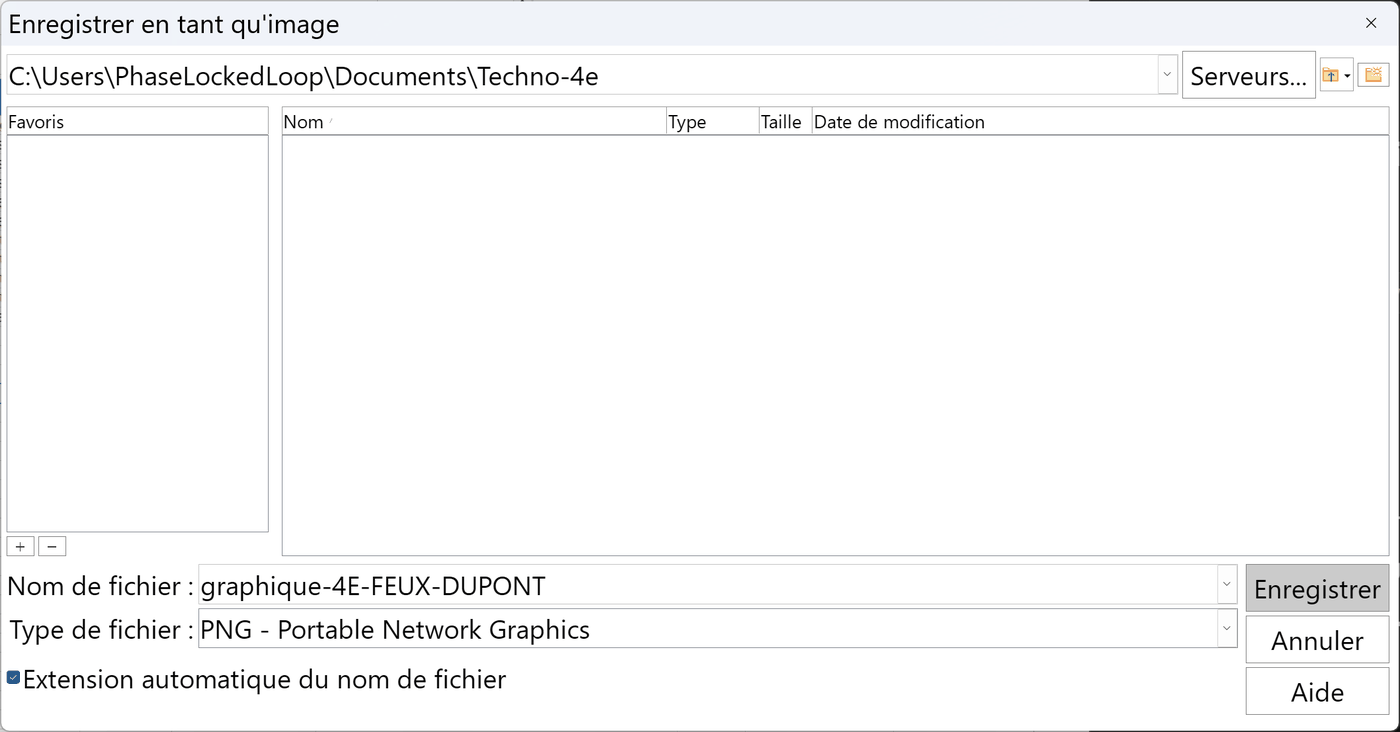
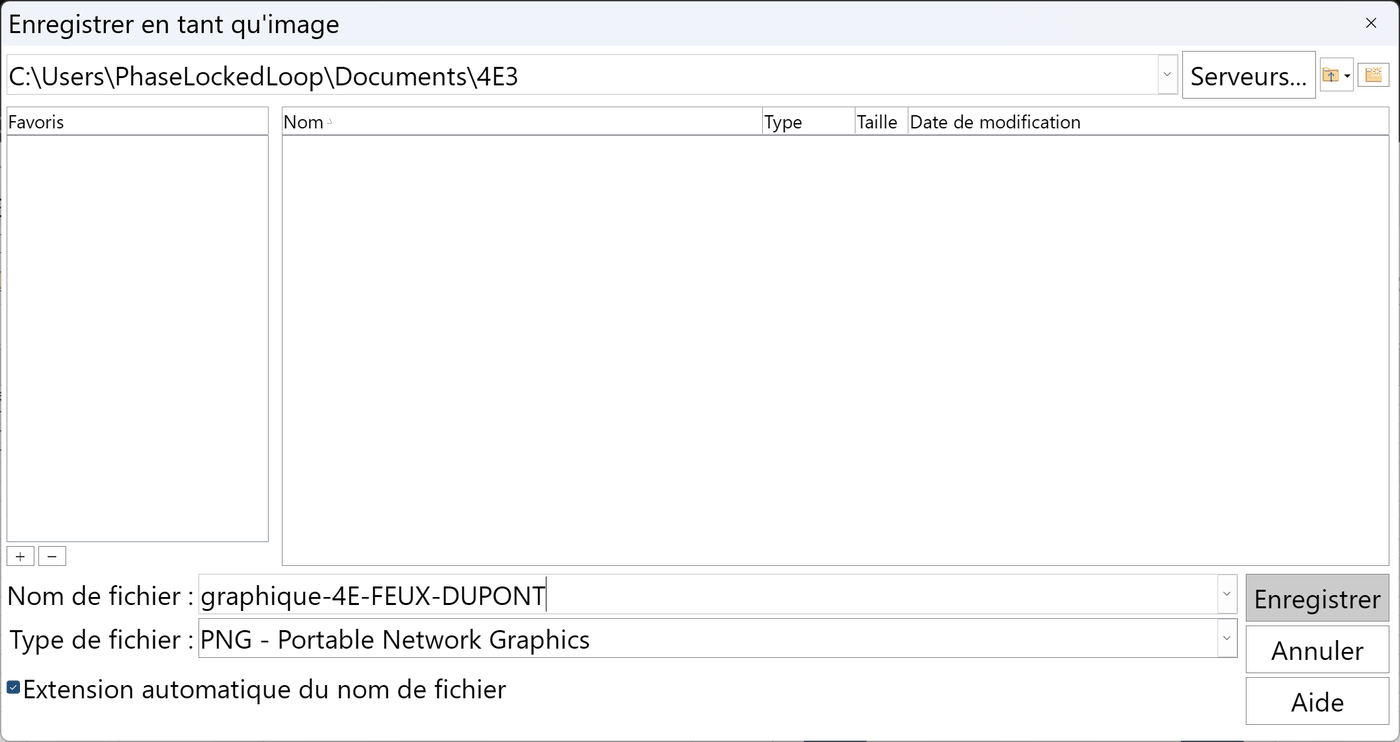
Thème 1 — 4e_C1.1 : le geste « Nommer » va dans Documents, dans le dossier de la classe (prompt v2, §2 bis)
Seule consigne changée, voulue par Pascal : « dans ton dossier personnel » devient
« dans Documents, dans le dossier qui porte le nom de ta classe (par exemple 4E3) », avec la
création du dossier. Le geste est montré étape par étape par sept captures réelles
(LibreOffice Calc 26.2.5.2 fr, Explorateur Windows), deux captures du pilote sont refaites
dans le dossier de classe, et l'agrandissement au clic du dépôt (loupe-images-v1) est ajouté
à la page. Rien d'autre ne bouge dans l'encart : diff mesuré mot à mot (deux opérations).

diff --git a/theme-1-objets-systemes-usages-interactions/C1-decrire-les-liens-entre-usages-et-evolutions/4e/4e_C1.1/sequence_4e_C1.1-C1.3_tsinghua_feux.html b/theme-1-objets-systemes-usages-interactions/C1-decrire-les-liens-entre-usages-et-evolutions/4e/4e_C1.1/sequence_4e_C1.1-C1.3_tsinghua_feux.html
@@ -199,17 +199,47 @@
         <figcaption><b>Si tu vois ceci&nbsp;:</b> tout est collé dans la colonne A, points-virgules compris — le séparateur n'était pas le bon. Ferme le fichier sans l'enregistrer (<b>Fichier → Fermer</b>), recommence <b>Fichier → Ouvrir…</b> et coche <b>Point-virgule</b>.</figcaption>
       </figure>
     </li>
-    <li><b>Nommer.</b> <b>Fichier → Enregistrer sous…</b> tout de suite, au format <b>Classeur ODF (.ods)</b>, sous <code>4E-FEUX-TON&nbsp;NOM</code>, dans ton dossier personnel.
+    <li><b>Nommer.</b> <b>Fichier → Enregistrer sous…</b> tout de suite, au format <b>Classeur ODF (.ods)</b>, sous <code>4E-FEUX-TON&nbsp;NOM</code>, dans <b>Documents</b>, dans le <b>dossier qui porte le nom de ta classe</b> (par exemple <code>4E3</code>). Si ce dossier n'existe pas encore, crée-le d'abord&nbsp;: dans la fenêtre d'enregistrement, ouvre Documents, clique sur <b>Nouveau dossier</b>, tape le nom de ta classe, valide, puis entre dedans.
       <figure class="geste-capture">
-        <img src="Images/geste_tableur_2_nommer_enregistrer_sous.png" width="1400" height="728" loading="lazy"
-             alt="Boîte de dialogue « Enregistrer sous » de LibreOffice Calc, en français. En haut, le dossier de destination. En bas, le champ « Nom de fichier » contient 4E-FEUX-DUPONT, et le champ « Type de fichier » affiche « Classeur ODF (.ods) », surligné. La case « Extension automatique du nom de fichier » est cochée. À droite, les boutons Enregistrer, Annuler et Aide.">
-        <figcaption><b>Ce que tu dois voir&nbsp;:</b> <b>Type de fichier&nbsp;: Classeur ODF (.ods)</b> — si tu lis encore «&nbsp;Texte CSV (.csv)&nbsp;», ouvre la liste et choisis Classeur ODF. Le <b>Nom de fichier</b> suit la consigne. <b>Puis&nbsp;:</b> <b>Enregistrer</b>. <i>DUPONT est un exemple&nbsp;: mets ton nom. Le dossier affiché est celui du poste où la capture a été prise&nbsp;; le tien est ton dossier personnel.</i></figcaption>
+        <img src="Images/geste_tableur_2_nommer_documents.png" width="1400" height="1170" loading="lazy"
+             alt="Boîte de dialogue « Enregistrer sous » de LibreOffice Calc, en français. En haut, le champ du chemin indique C:\Users\PhaseLockedLoop\Documents. La liste montre les dossiers de Documents, parmi lesquels des dossiers de classes : 3ème G2, 3ème G5, 4ème, 5eA, 5ème B, 5ème C. En bas, le champ « Nom de fichier » contient encore donnees_feux_impacts_4e et « Type de fichier » affiche Texte CSV (.csv). À droite, les boutons Enregistrer, Annuler et Aide.">
+        <figcaption><b>Ce que tu dois voir&nbsp;:</b> la fenêtre <b>Enregistrer sous</b> ouverte sur <b>Documents</b> — le chemin, en haut, finit par «&nbsp;Documents&nbsp;». Si elle s'ouvre ailleurs (Téléchargements, par exemple), tape <code>Documents</code> dans la case du chemin ou clique sur Documents dans la liste de gauche. Cherche dans la liste le dossier qui porte le nom de ta classe&nbsp;: s'il y est, entre dedans (double-clic) et passe aux trois dernières images&nbsp;; s'il n'y est pas, continue ci-dessous. <i>Les dossiers visibles sont ceux du poste où la capture a été prise&nbsp;; les tiens seront différents.</i></figcaption>
       </figure>
     
       <figure class="geste-capture">
-        <img src="Images/geste_tableur_2b_nommer_resultat.png" width="1400" height="876" loading="lazy"
+        <img src="Images/geste_tableur_2b_nommer_bouton_nouveau_dossier.png" width="1400" height="1170" loading="lazy"
+             alt="La même boîte « Enregistrer sous », toujours sur Documents. Tout à droite de la ligne du chemin, à côté du bouton Serveurs, le petit bouton portant un dossier jaune est surligné : c'est le bouton Nouveau dossier, que LibreOffice nomme « Créer un nouveau dossier » quand la souris reste dessus.">
+        <figcaption><b>Le bouton Nouveau dossier&nbsp;:</b> tout à droite de la ligne du chemin, le petit bouton avec un <b>dossier jaune</b> (laisse la souris dessus&nbsp;: LibreOffice écrit «&nbsp;Créer un nouveau dossier&nbsp;»). Clique dessus. <i>Si ta fenêtre d'enregistrement est celle de Windows, le bouton s'appelle «&nbsp;Nouveau dossier&nbsp;» et se trouve au-dessus de la liste des fichiers.</i></figcaption>
+      </figure>
+    
+      <figure class="geste-capture">
+        <img src="Images/geste_tableur_2c_nommer_nom_du_dossier.png" width="1400" height="1170" loading="lazy"
+             alt="Par-dessus la boîte « Enregistrer sous », une petite fenêtre intitulée Documents, avec le titre « Créer un nouveau dossier » et un champ « Nom » dans lequel est tapé 4E3. En dessous, les boutons OK et Annuler.">
+        <figcaption><b>Ce que tu dois voir&nbsp;:</b> une petite fenêtre <b>Créer un nouveau dossier</b> avec une case <b>Nom</b>. Tape le nom de ta classe, puis <b>OK</b> (ou Entrée). <i>4E3 est un exemple&nbsp;: mets le nom de ta classe.</i></figcaption>
+      </figure>
+    
+      <figure class="geste-capture">
+        <img src="Images/geste_tableur_2d_nommer_dossier_cree.png" width="1400" height="1170" loading="lazy"
+             alt="La boîte « Enregistrer sous », toujours sur Documents : en bas de la liste des dossiers, le nouveau dossier 4E3 apparaît, précédé d'une icône de dossier.">
+        <figcaption><b>Comment savoir que c'est fait&nbsp;:</b> ton dossier apparaît dans la liste (ici tout en bas, parce qu'il vient d'être créé). LibreOffice n'entre pas dedans tout seul&nbsp;: <b>double-clique</b> sur son nom pour y entrer. <i>4E3 est un exemple.</i></figcaption>
+      </figure>
+    
+      <figure class="geste-capture">
+        <img src="Images/geste_tableur_2e_nommer_enregistrer_sous.png" width="1400" height="1170" loading="lazy"
+             alt="La boîte « Enregistrer sous », maintenant dans le dossier de la classe : le champ du chemin, en haut, indique C:\Users\PhaseLockedLoop\Documents\4E3 et la liste des fichiers est vide. En bas, le champ « Nom de fichier » contient 4E-FEUX-DUPONT et le champ « Type de fichier » affiche « Classeur ODF (.ods) », surligné. La case « Extension automatique du nom de fichier » est cochée. À droite, les boutons Enregistrer, Annuler et Aide.">
+        <figcaption><b>Ce que tu dois voir avant d'enregistrer&nbsp;:</b> trois choses. Le chemin, en haut, finit par <b>Documents</b> puis <b>le nom de ta classe</b>&nbsp;; le <b>Nom de fichier</b> suit la consigne&nbsp;; <b>Type de fichier&nbsp;: Classeur ODF (.ods)</b> — si tu lis encore «&nbsp;Texte CSV (.csv)&nbsp;», ouvre la liste et choisis Classeur ODF. <b>Puis&nbsp;:</b> <b>Enregistrer</b>. <i>DUPONT et 4E3 sont des exemples&nbsp;: mets ton nom et ta classe. PhaseLockedLoop est le nom du compte du poste où la capture a été prise.</i></figcaption>
+      </figure>
+    
+      <figure class="geste-capture">
+        <img src="Images/geste_tableur_2f_nommer_resultat.png" width="1400" height="876" loading="lazy"
              alt="Fenêtre de LibreOffice Calc dont la barre de titre indique désormais 4E-FEUX-DUPONT.ods — LibreOffice Calc. La feuille de données est inchangée.">
         <figcaption><b>Comment savoir que c'est fait&nbsp;:</b> la barre de titre, tout en haut, affiche ton nom de fichier suivi de <b>.ods</b>, et non plus .csv. <i>DUPONT est un exemple.</i></figcaption>
+      </figure>
+    
+      <figure class="geste-capture">
+        <img src="Images/geste_tableur_2g_nommer_explorateur.png" width="1400" height="764" loading="lazy"
+             alt="Fenêtre de l'Explorateur de fichiers de Windows, en français et en mode sombre. La barre d'adresse indique le chemin PhaseLockedLoop › Documents › 4E3. La liste contient un seul fichier, 4E-FEUX-DUPONT.ods, de type Feuille de calcul, modifié le 10/09/2026 à 07:42. En bas, « 1 élément ».">
+        <figcaption><b>Pour vérifier, ou pour le retrouver plus tard&nbsp;:</b> ouvre l'<b>Explorateur de fichiers</b> de Windows, va dans <b>Documents</b>, puis dans le dossier de ta classe&nbsp;: ton fichier <b>.ods</b> est là. Ce chemin — Documents, puis ta classe — est celui à refaire à la séance suivante. <i>4E3, DUPONT et PhaseLockedLoop (le nom du compte) sont des exemples&nbsp;; l'Explorateur peut être clair ou sombre selon le poste.</i></figcaption>
       </figure>
     </li>
     <li><b>Retrouver.</b> Le tableur n'enregistre pas tout seul&nbsp;: <kbd>Ctrl</kbd>+<kbd>S</kbd> après chaque série de saisies. Rouvre ton fichier au début de la séance suivante pour vérifier qu'il est complet.
@@ -224,11 +254,10 @@
              alt="La même fenêtre après Ctrl+S : l'icône de la barre d'état, en bas à gauche, est redevenue grise, et l'icône Enregistrer de la barre d'outils n'a plus de point rouge.">
         <figcaption><b>Comment savoir que c'est fait&nbsp;:</b> après <kbd>Ctrl</kbd>+<kbd>S</kbd>, l'icône en bas à gauche redevient <b>grise</b>. Rien d'autre ne change à l'écran&nbsp;: c'est normal.</figcaption>
       </figure>
-    
       <figure class="geste-capture">
-        <img src="Images/geste_tableur_3c_retrouver_rouvrir.png" width="1400" height="732" loading="lazy"
-             alt="Boîte de dialogue « Ouvrir » de LibreOffice Calc, dans le dossier de travail. La liste montre deux fichiers : 4E-FEUX-DUPONT.ods, sélectionné, de type Feuille de calcul, et donnees_feux_impacts_4e.csv. Le champ « Nom de fichier » contient 4E-FEUX-DUPONT.ods. Le bouton Ouvrir est à droite.">
-        <figcaption><b>Pour rouvrir à la séance suivante&nbsp;:</b> <b>Fichier → Ouvrir…</b>, va dans ton dossier personnel et choisis le fichier qui finit par <b>.ods</b> — pas le .csv, qui est le fichier de départ, sans ton travail. <i>Le nom et le dossier sont des exemples.</i></figcaption>
+        <img src="Images/geste_tableur_3c_retrouver_rouvrir.png" width="1400" height="742" loading="lazy"
+             alt="Boîte de dialogue « Ouvrir » de LibreOffice Calc. Le champ du chemin, en haut, indique C:\Users\PhaseLockedLoop\Documents\4E3. La liste montre un fichier : 4E-FEUX-DUPONT.ods, sélectionné, de type Feuille de calcul. Le champ « Nom de fichier » contient 4E-FEUX-DUPONT.ods. Le bouton Ouvrir est à droite.">
+        <figcaption><b>Pour rouvrir à la séance suivante&nbsp;:</b> <b>Fichier → Ouvrir…</b>, va dans <b>Documents</b>, puis dans le dossier de ta classe, et choisis le fichier qui finit par <b>.ods</b> — pas le .csv, qui est le fichier de départ, sans ton travail. <i>Le nom, le dossier et le nom du compte sont des exemples.</i></figcaption>
       </figure>
     </li>
     <li><b>Sortir.</b> Le classeur est le rendu. Un graphique se copie dans le compte rendu, ou s'exporte en image par un clic droit.
@@ -237,11 +266,10 @@
              alt="Fenêtre de LibreOffice Calc avec un diagramme en colonnes posé sur la feuille et sélectionné (huit petits carrés autour). Un menu contextuel est ouvert sur le diagramme : Couper, Copier, Coller, Position et taille, Ancre, Positionner, Nom, Texte alternatif, Assigner la macro, Exporter comme image, Éditer.">
         <figcaption><b>Ce que tu dois voir&nbsp;:</b> un <b>clic</b> sur le graphique (des petits carrés apparaissent autour), puis un <b>clic droit</b>&nbsp;: le menu propose <b>Copier</b> (pour le coller dans le compte rendu) et <b>Exporter comme image</b>. <i>Le graphique montré est un exemple.</i></figcaption>
       </figure>
-    
       <figure class="geste-capture">
-        <img src="Images/geste_tableur_4b_sortir_enregistrer_image.png" width="1400" height="732" loading="lazy"
-             alt="Boîte de dialogue « Enregistrer en tant qu'image » de LibreOffice Calc. Le champ « Nom de fichier » contient graphique-4E-FEUX-DUPONT ; « Type de fichier » affiche PNG - Portable Network Graphics ; la case « Extension automatique du nom de fichier » est cochée. Le bouton Enregistrer est à droite.">
-        <figcaption><b>Comment savoir que c'est fait&nbsp;:</b> après <b>Exporter comme image</b>, cette boîte s'ouvre&nbsp;; garde le type <b>PNG</b>, donne un nom, <b>Enregistrer</b>. Le fichier image apparaît dans ton dossier, à côté du classeur. <i>Le nom est un exemple.</i></figcaption>
+        <img src="Images/geste_tableur_4b_sortir_enregistrer_image.png" width="1400" height="742" loading="lazy"
+             alt="Boîte de dialogue « Enregistrer en tant qu'image » de LibreOffice Calc, ouverte sur le dossier de la classe : le chemin indique C:\Users\PhaseLockedLoop\Documents\4E3 et la liste ne montre pas le classeur, parce que seules les images sont affichées. Le champ « Nom de fichier » contient graphique-4E-FEUX-DUPONT ; « Type de fichier » affiche PNG - Portable Network Graphics ; la case « Extension automatique du nom de fichier » est cochée. Le bouton Enregistrer est à droite.">
+        <figcaption><b>Comment savoir que c'est fait&nbsp;:</b> après <b>Exporter comme image</b>, cette boîte s'ouvre&nbsp;; garde le type <b>PNG</b>, donne un nom, vérifie que le chemin finit par le nom de ta classe, <b>Enregistrer</b>. Le fichier image apparaît dans ton dossier, à côté du classeur. <i>Le nom, le dossier et le nom du compte sont des exemples.</i></figcaption>
       </figure>
     </li>
   </ol>
@@ -1310,6 +1338,132 @@ $("btnEssentiel").addEventListener("click", ()=>{
 restore();
 if(window.__exp["mode_essentiel"]) document.body.classList.add("essentiel");
 majEssentiel(); majProgress(); majHyp();
+</script>
+<!-- loupe-images-v1 — agrandisseur d'images, règle d'or n°92. Aucune bibliothèque, aucun
+     réseau. Clic ou Entrée pour agrandir, Échap ou clic dans le fond pour
+     refermer. Le focus revient sur l'image quittée. -->
+<style>
+  .loupe-fond{position:fixed;inset:0;background:rgba(12,14,18,.92);display:none;
+    z-index:9999;padding:2rem 2rem 9rem;box-sizing:border-box;overflow:auto;
+    align-items:center;justify-content:center}
+  .loupe-fond[data-ouvert="oui"]{display:flex}
+  .loupe-fond img{max-width:100%;max-height:68vh;height:auto;
+    box-shadow:0 0 0 1px rgba(255,255,255,.15),0 24px 60px rgba(0,0,0,.6);
+    background:#fff;border-radius:4px}
+  /* Refonte v2 : la legende ne doit JAMAIS chevaucher l'image agrandie.
+     Barre opaque collee en bas + image reduite (68vh) + reserve de place
+     sous l'image via le padding-bottom du fond. */
+  .loupe-legende{position:fixed;left:0;right:0;bottom:0;text-align:center;
+    color:#e7e9ee;font:400 .95rem/1.4 system-ui,sans-serif;
+    background:#12151b;border-top:1px solid #3a4150;
+    padding:.75rem 2rem;max-height:22vh;overflow:auto;
+    box-shadow:0 -8px 24px rgba(0,0,0,.5)}
+  .loupe-fermer{position:fixed;top:.8rem;right:1rem;background:#1b1f27;
+    color:#e7e9ee;border:1px solid #3a4150;border-radius:6px;
+    font:600 1rem/1 system-ui,sans-serif;padding:.6rem .9rem;cursor:pointer}
+  .loupe-fermer:focus-visible,.loupe-cliquable:focus-visible{outline:3px solid #ffb300;
+    outline-offset:3px}
+  .loupe-cliquable{cursor:zoom-in}
+  /* L'indice « cliquer pour agrandir » ne doit JAMAIS couvrir l'image : l'infobulle
+     native (attribut title) se place au milieu du dessin et masque le contenu.
+     On l'affiche donc nous-mêmes, dans un coin, au survol ou au focus. */
+  .loupe-enveloppe{position:relative;display:block}
+  .loupe-badge{position:absolute;top:8px;right:8px;z-index:2;pointer-events:none;
+    background:rgba(12,14,18,.88);color:#e7e9ee;border:1px solid #3a4150;border-radius:6px;
+    font:600 .78rem/1 system-ui,sans-serif;padding:5px 8px;opacity:0;transition:opacity .12s}
+  .loupe-enveloppe:hover .loupe-badge,
+  .loupe-enveloppe:focus-within .loupe-badge{opacity:1}
+  @media print{.loupe-badge{display:none}}
+  @media (prefers-reduced-motion:reduce){.loupe-badge{transition:none}}
+  @media print{.loupe-fond{display:none !important}}
+  @media (prefers-reduced-motion:no-preference){
+    .loupe-fond[data-ouvert="oui"] img{animation:loupe-ouvre .16s ease-out}
+    @keyframes loupe-ouvre{from{transform:scale(.97);opacity:.4}to{transform:none;opacity:1}}
+  }
+</style>
+<script>
+(function(){
+  "use strict";
+  var fond, grande, legende, dernier = null;
+
+  function construire(){
+    fond = document.createElement("div");
+    fond.className = "loupe-fond";
+    fond.setAttribute("role", "dialog");
+    fond.setAttribute("aria-modal", "true");
+    fond.setAttribute("aria-label", "Image agrandie");
+    var bouton = document.createElement("button");
+    bouton.type = "button";
+    bouton.className = "loupe-fermer";
+    bouton.textContent = "Fermer ✕";
+    grande = document.createElement("img");
+    grande.alt = "";
+    legende = document.createElement("p");
+    legende.className = "loupe-legende";
+    fond.appendChild(bouton); fond.appendChild(grande); fond.appendChild(legende);
+    document.body.appendChild(fond);
+    bouton.addEventListener("click", fermer);
+    fond.addEventListener("click", function(e){ if (e.target === fond) fermer(); });
+  }
+
+  function ouvrir(img){
+    if (!fond) construire();
+    dernier = img;
+    grande.src = img.currentSrc || img.src;
+    grande.alt = img.alt || "";
+    // L'alternative textuelle sert de légende : elle DIT ce que l'image montre.
+    legende.textContent = img.alt ? img.alt + "  —  Échap pour refermer"
+                                  : "Échap pour refermer";
+    fond.setAttribute("data-ouvert", "oui");
+    fond.querySelector(".loupe-fermer").focus();
+  }
+
+  function fermer(){
+    if (!fond) return;
+    fond.removeAttribute("data-ouvert");
+    grande.removeAttribute("src");
+    if (dernier) { dernier.focus(); dernier = null; }
+  }
+
+  document.addEventListener("keydown", function(e){
+    if (e.key === "Escape" && fond && fond.getAttribute("data-ouvert")) fermer();
+  });
+
+  function armer(){
+    var images = document.querySelectorAll("img");
+    for (var i = 0; i < images.length; i++) {
+      var img = images[i];
+      if (img.closest(".loupe-fond")) continue;
+      if (img.dataset.loupe === "non") continue;      // opt-out explicite
+      img.classList.add("loupe-cliquable");
+      img.tabIndex = 0;
+      /* Badge dans le coin plutôt qu'infobulle native : celle-ci se pose au
+         milieu de l'image et masque ce qu'on demande justement de lire. */
+      if (!img.parentNode.classList.contains("loupe-enveloppe")) {
+        var env = document.createElement("span");
+        env.className = "loupe-enveloppe";
+        img.parentNode.insertBefore(env, img);
+        env.appendChild(img);
+        var badge = document.createElement("span");
+        badge.className = "loupe-badge";
+        badge.setAttribute("aria-hidden", "true");
+        badge.textContent = "🔍 Cliquer pour agrandir";
+        env.appendChild(badge);
+      }
+      img.removeAttribute("title");
+      img.addEventListener("click", function(){ ouvrir(this); });
+      img.addEventListener("keydown", function(e){
+        if (e.key === "Enter" || e.key === " ") { e.preventDefault(); ouvrir(this); }
+      });
+    }
+  }
+
+  if (document.readyState === "loading") {
+    document.addEventListener("DOMContentLoaded", armer);
+  } else {
+    armer();
+  }
+})();
 </script>
 </body>
 </html>

diff --git a/JOURNAL_DES_DECISIONS.md b/JOURNAL_DES_DECISIONS.md
@@ -13042,3 +13042,115 @@ celui du lot Tsinghua : le tien est dans la consigne ». Pour le tableur, 3e_C1.
 > et la n°121 (une capture montre un geste nécessaire) : la n°93 disait que le geste doit être
 > *écrit* ; celle-ci dit qu'il doit pouvoir être *refait sans le professeur*. **Proposée — à retenir
 > par Pascal.**
+
+
+## 2026-09-10 — 4e_C1.1 : le geste « Nommer » va dans Documents, dans le dossier de la classe (prompt v2, §2 bis)
+
+**Branche** `fable/theme-1/gestes-en-captures-4e-C1.1-dossier-classe`, depuis `main` après la fusion
+de la PR #369 (lot pilote). Le prompt maître est passé en **version 2** le 10/09/2026 : tout vit sur la
+page web, rien à imprimer ; **chaque geste a sa capture, sans exception** ; et une seule consigne
+change, voulue par Pascal — le lieu d'enregistrement. Cette entrée ne porte que ce delta sur le
+pilote ; rien n'est étendu aux autres lots (§6), la question du réemploi (a)/(b) reste posée.
+
+### La seule consigne qui change (§2 bis) — mesurée
+
+Le geste « Nommer » disait « dans ton dossier personnel » ; les élèves ne savent pas où c'est. Il dit
+maintenant, mot pour mot le texte de Pascal, les mots propres au lot conservés (`4E-FEUX-TON NOM`,
+Classeur ODF) :
+
+> **Nommer.** Fichier → Enregistrer sous… tout de suite, au format Classeur ODF (.ods), sous
+> `4E-FEUX-TON NOM`, dans **Documents**, dans le **dossier qui porte le nom de ta classe** (par
+> exemple `4E3`). Si ce dossier n'existe pas encore, crée-le d'abord : dans la fenêtre
+> d'enregistrement, ouvre Documents, clique sur **Nouveau dossier**, tape le nom de ta classe,
+> valide, puis entre dedans.
+
+Texte visible de l'encart (balises retirées, figures exclues, comparé mot à mot par `difflib`) :
+- **contre `main` (pilote fusionné)** : 961 → 1202 caractères, **deux opérations**, toutes deux dans
+  le geste « Nommer » : « ton » → « Documents, dans le » et « personnel. » → « qui porte le nom de ta
+  classe (…) puis entre dedans. » ;
+- **contre la version d'avant le pilote** : trois opérations — l'insertion de ` (échauffement)` et les
+  deux ci-dessus. Rien d'autre n'a bougé : ni le paragraphe, ni Ouvrir, Retrouver, Sortir.
+`controle_gestes_outil.py` lit toujours le titre : 22 encarts, 0 écart.
+
+### Les captures du geste « Nommer », une par étape (n°121 : on ne résume pas un chemin en une image)
+
+Même poste, même logiciel que le pilote : Windows 11 Pro fr-FR, LibreOffice Calc 26.2.5.2 en
+français, LibreOffice en *mode clair* et *boîtes de dialogue LibreOffice* le temps des captures
+(profil sauvegardé puis restauré, comme ce matin). Le CSV du lot a été déposé dans Téléchargements,
+comme sur le poste d'un élève qui vient de le télécharger ; `Documents\4E3` n'existait pas avant et a
+été supprimé après. Aucune retouche ; réduction à 1400 px, 256 couleurs.
+
+| Capture | Ce qu'elle montre | Poids |
+|---|---|---|
+| `geste_tableur_2_nommer_documents.png` | « Enregistrer sous » ouverte sur **Documents** ; dans la liste, des dossiers de classes (3ème G2, 5eA, 5ème B…) — ceux du poste, déclarés exemples | 154 Ko |
+| `geste_tableur_2b_nommer_bouton_nouveau_dossier.png` | le bouton **Nouveau dossier** surligné, tout à droite de la ligne du chemin (LibreOffice l'appelle « Créer un nouveau dossier ») | 154 Ko |
+| `geste_tableur_2c_nommer_nom_du_dossier.png` | la petite fenêtre « Créer un nouveau dossier », **Nom : 4E3** (exemple) | 160 Ko |
+| `geste_tableur_2d_nommer_dossier_cree.png` | le dossier `4E3` apparu en bas de la liste — LibreOffice n'y entre pas tout seul, la légende dit de double-cliquer | 146 Ko |
+| `geste_tableur_2e_nommer_enregistrer_sous.png` | dans `Documents\4E3` : Nom `4E-FEUX-DUPONT`, **Classeur ODF (.ods)** — remplace l'ancienne capture 2 | 47 Ko |
+| `geste_tableur_2f_nommer_resultat.png` | la barre de titre en `.ods` — c'est l'ancienne capture 2b, inchangée (même fichier, même nom), renommée | 122 Ko |
+| `geste_tableur_2g_nommer_explorateur.png` | l'**Explorateur Windows** : `… › Documents › 4E3 › 4E-FEUX-DUPONT.ods`, 1 élément | 60 Ko |
+
+Deux captures du pilote ont été **refaites** pour rester vraies après ce changement de lieu :
+`geste_tableur_3c_retrouver_rouvrir.png` (« Ouvrir » dans `Documents\4E3`, le `.ods` sélectionné ;
+46 Ko) et `geste_tableur_4b_sortir_enregistrer_image.png` (« Enregistrer en tant qu'image » dans
+`Documents\4E3`, PNG ; 43 Ko) — l'ancienne 4b montrait encore `Documents\Techno-4e`. Les captures
+1, 1b, 1c, 3, 3b et 4 sont celles du pilote. **Quinze captures**, quatre gestes, aucun sans image.
+
+### Vu en prenant les captures — à trancher par Pascal
+
+- **« Nouveau dossier » (n°128).** La consigne dit « clique sur Nouveau dossier ». C'est le mot exact
+  du bouton de la boîte **Windows** ; dans la boîte **LibreOffice** (celle des captures), le bouton
+  est une icône sans texte dont l'infobulle dit « Créer un nouveau dossier ». Le mot de Pascal
+  couvre les deux : il est gardé tel quel, et la légende de la capture 2b nomme les deux formes.
+  L'infobulle n'a pas pu être capturée (elle ne s'affiche pas sous un survol simulé) : c'est le
+  bouton surligné qui est montré, et la petite fenêtre suivante porte le mot exact.
+- **L'Explorateur est en mode sombre** sur le poste (Windows suit le thème de Pascal) ; on ne peut pas
+  le mettre en clair sans changer le thème de tout le poste, ce qui n'a pas été fait. La capture 2g
+  est donc sombre, lisible, et la légende dit que l'Explorateur peut être clair ou sombre selon le
+  poste. Le volet de navigation (qui listait les dossiers du poste) a été masqué le temps de la
+  capture, puis réaffiché.
+- **Le nom du compte** (`PhaseLockedLoop`) apparaît dans le chemin de quatre captures, comme dans le
+  pilote ; les légendes le déclarent exemple.
+- **La liste de Documents** montre les dossiers du poste : aucun nom privé n'est lisible (colonne
+  « Nom » étroite, noms tronqués), vérifié image par image ; la légende dit que « les tiens seront
+  différents ».
+
+### L'agrandissement au clic — le dépôt avait déjà le mécanisme
+
+L'entrée du pilote disait « la page n'a pas ce mécanisme, on n'en invente pas » : c'était faux.
+91 pages du dépôt (stations 3e_C9.2, jardin 4e_C9, boîte étiquetée 5e_C9.1…) portent le bloc
+`loupe-images-v1` (règle n°92 : clic ou Entrée pour agrandir, Échap pour refermer, l'`alt` sert de
+légende, aucun réseau). Il est **recopié tel quel** dans la page 4e_C1.1, avant `</body>` ; les
+quinze captures s'ouvrent en grand avec leur `alt` en légende, vérifié au navigateur.
+
+### Les contrôles (§5), tous exécutés ce jour
+
+- `controle_gestes_outil.py` : 22 encarts · 0 écart ✅ — `controle_medias.py` ✅ (quinze lignes de
+  provenance, deux retirées) — `controle_liens.py` ✅ — `verif_regles_audit.py …/4e_C1.1/` : 1 séquence ·
+  0 manquement (le ⚑ n°27 préexistant, inchangé).
+- `tests_4e_C1.1-C1.3_tsinghua.py` : **42 / 42**.
+- `controle_impression.mjs` (importé par `node -e`, voir le pilote) : ✅ aucune page refusée.
+- Navigateur, serveur local : **1280 px** et **390 px**, `scrollWidth == clientWidth` aux deux
+  largeurs, aucun élément de l'encart ne dépasse, figures à 559 px puis 296 px, **15 / 15 images
+  chargées, 0 cassée, 0 `alt` court**, console vide ; loupe ouverte et refermée par script.
+- `build_audit.py` et `make_index.py` régénérés avant le commit.
+
+### Le poste, remis en état
+
+Profil LibreOffice restauré depuis sa sauvegarde (mode d'apparence, boîtes de dialogue, et la taille
+mémorisée de la boîte « Ouvrir », qu'il a fallu réduire dans le profil pour qu'elle tienne à l'écran) ;
+`Documents\4E3` et la copie du CSV dans Téléchargements supprimés ; volet de navigation de
+l'Explorateur réaffiché.
+
+### La règle d'or n°297, dans sa formulation du prompt v2 (proposée, à retenir par Pascal)
+
+> **Règle d'or n°297 (clé de voûte) — un geste d'outil s'enseigne pour être refait seul, plus tard,
+> depuis la page.** L'encart « Avant de commencer » est un échauffement, et se nomme ainsi. Chaque
+> geste qu'il liste — jusqu'au dossier de la classe dans Documents — est montré par une capture du
+> vrai logiciel, prise sur le poste, dans la langue du poste, au moment du geste et au résultat
+> attendu, sans retouche, le geste désigné dans la légende. Un élève qui a oublié ce que le
+> professeur a dit, chez lui ou des mois après, rouvre la page, retrouve le geste, et le refait sans
+> personne. Ce qui se dit de vive voix à chaque séance n'est pas enseigné : c'est répété.
+> — Elle prolonge la n°93 et la n°121 : la n°93 disait que le geste doit être *écrit* ; celle-ci dit
+> qu'il doit pouvoir être *refait sans le professeur* — et que le support de ce rappel est la page,
+> pas une feuille : elle est là quand la mémoire ne l'est plus, et elle ne coûte aucune photocopie.
